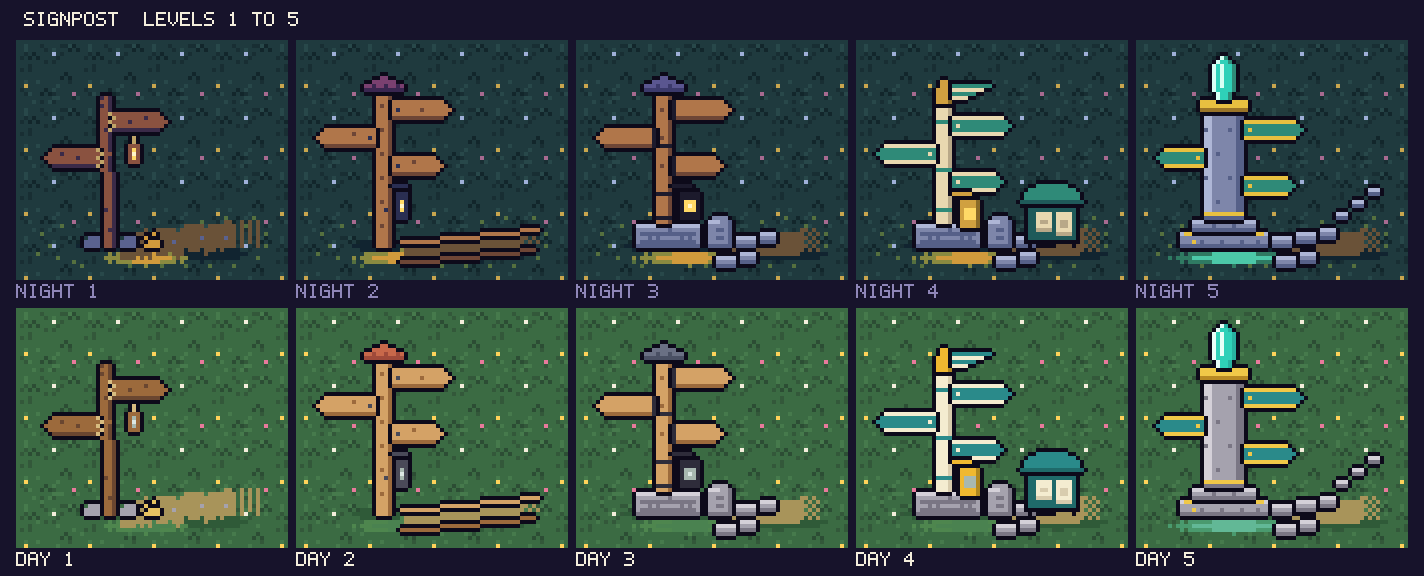
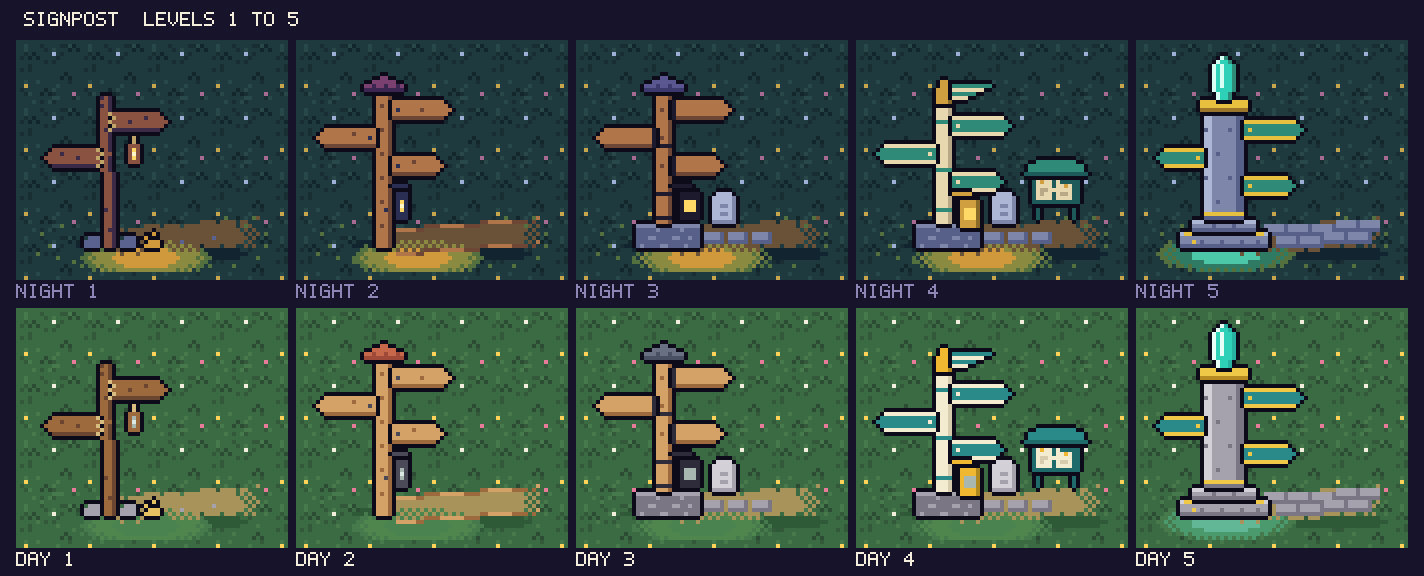
Signpost: lantern pools, one continuous road, notice board and milestone fixes
Claude-Session: https://claude.ai/code/session_01TqJ8tUAM4Muj4eb7wE4uc8

diff --git a/apps/activity/src/sprites/concepts/valley-levels-signpost.ts b/apps/activity/src/sprites/concepts/valley-levels-signpost.ts
@@ -41,6 +41,10 @@ const OWN = {
   },
   day: { x: '#2f5a38', '1': '#467a4c', '2': '#4e864e', '3': '#4a8250', G: '#a8b8b0', H: '#dce8e4' },
 };
+const OWN3 = {
+  night: { k: INK, x: '#112430', '1': '#55703f', '2': '#8a8a40', '3': '#d09a3c', G: '#ffd966' },
+  day: { x: '#2f5a38', '1': '#467a4c', '2': '#4e864e', '3': '#4a8250', G: '#a8b8b0' },
+};
 const OWN4 = {
   night: {
     k: INK,
@@ -104,20 +108,20 @@ const ROAD_1 = level(
     '...................kllLk........................................',
     '...................kLlLk........................................',
     '...................kllLk........................................',
-    '...................kllLk..........................1......1......',
-    '...................kllLk....................1.....ee..e.e.e.....',
-    '.........1.........kllLk................eeeee.eeeeeee.e1e.e.....',
-    '...................klLLk......e.keeeee.eeeeeeeeeeeeee.e.e.e.....',
-    '....1..........kkkkkllLkkkkkeekkskeeeeeeeeeeeeeeeeeee.e.e.e.1...',
-    '..............k.fffkllLk.fffkkskkkeeeeeeeeeefeeeeefee.e.e.e.....',
-    '..............kffffkllLkffffkekssskeefeeeeeeeeeeeeeee.e.e.e.....',
-    '......1......xkffffkllLkffffkksssskeeeeeeeeeeeeeeeeee.e...e.1...',
-    '...............kkkkxkkkxkkkkeekkkkeeeeeexeeexeeexexxxx..........',
-    '...1.................2.2eeeeeeee3eee2eeexxxxxexxxxxxxxxx........',
-    '........1...........2222eeee3e3e333332e22xxxxxxxxxxxxx....1.....',
-    '............1........2.222233333332222.2....x...................',
-    '..............1...........1...2...1.....1.....1.....1...........',
-    '................................................................',
+    '...................kllLk..........................1......1e.....',
+    '...................kllLk....................eeee.eeee.ee........',
+    '.........1.........kllLk......eeee.eeee.eeeeeeeeeeeee.e1e.......',
+    '...................klLLke.eeeeeekeeeeeeeeeeeeeeeeeeeee.e.e......',
+    '....1..........kkkkkllLkkkkkeekkskeeeeeeeeeeeeeeeeeeeee.e.e.1...',
+    '..............k.fffkllLk.fffkkskkkeeeeeeeeeeeeefeeeeeeee.e......',
+    '..............kffffkllLkffffkekssske2eefeeeeeeeeeeeeeee.e.......',
+    '......1......xkffffkllLkffffkkssssk2e2e2e2eexeeee.eee..e.e..1...',
+    '...............kkkk1kkkekkkk3ekkkk332e2e2e2e1xxxxxxxxx..........',
+    '...1...........112222223e333e33333333322222211xxxxxxxxxx........',
+    '........1.....112122223333333333333333322221211xxxxxxx....1.....',
+    '............1..1122222233333333333333322222211..................',
+    '..............1.11212222233333333333222221211.1.....1...........',
+    '.................1.21212222222222222221212.1....................',
   ],
 );
 
@@ -170,20 +174,20 @@ const ROAD_2 = level(
     '.................kpppPknHnk.....................................',
     '.................kppnPknGnk.....................................',
     '.................kpppPknnnk.....................................',
-    '.................kpppPknnnk.......................1......1......',
-    '.................kpppPkkkk..................1...................',
-    '.........1.......kpPpPk...............................kkkkk.....',
-    '.................kpppPk.....................kkkkkkkkkkpppppk....',
-    '....1............kpppPk...........kkkkkkkkkkppppppppppkkkkk.1...',
-    '.................kpppPk.kkkkkkkkkkppppppppppkkkkkkkkkkee.e......',
-    '..............xxxkpppPkkppppppppppkkkkkkkkkkeeeeeeeeeee.e.e.....',
-    '......1.....xxxxxkpppPkxkkkkkkkkkkeeeeeeeeeeeeeeeeeeeekkkk..1...',
-    '..............xxxxkkkkxx2eeeeeeeeeeeeeeeeeeekkkkkkkkkkPPPPk.....',
-    '...1...........2222223333eeeeeeeeekkkkkkkkkkPPPPPPPPPPkkkk......',
-    '........1...2.2223333333kkkkkkkkkkPPPPPPPPPPkkkkkkkkkkx...1.....',
-    '............1..22222233kPPPPPPPPPPkkkkkkkkkkx...................',
-    '..............1.........kkkkkkkkkk1.....1.....1.....1...........',
-    '................................................................',
+    '.................kpppPknnnk.......................1......1p.....',
+    '.................kpppPkkkk..................PPppppppPPPP.P......',
+    '.........1.......kpPpPk.......PPPPppppppPPPPeeeeeeeeeee1e.e.....',
+    '.................kpppPkpppppPPeeeeeeeeeeeeeeeeeeeeeeeeee.e......',
+    '....1............kpppPkeeeeeeeeeeeeeeeeeeeeeeeeeeeeeeee.e.e.1...',
+    '.................kpppPkeeeeeeeeeeeeeeeeeeeeeeeeeeeeeeeee.e......',
+    '..............xxxkpppPke2e2e2e2e2e2eeeeeeeeeeeeeeeeeeee.e.p.....',
+    '......1.....xxx1xkpppPk2e2e2e2e2e2e2e2e2eeeePPppppppPPPP.P..1...',
+    '..............1121kkkk2e3e3e3ePPPPppppppPPPPxxxxxxxxxxx.........',
+    '...1.........1122222233pppppPP33333322222211xxxxxxxxxxxxx.......',
+    '........1...112122223333333333333333322221211xxxxxxxxxx...1.....',
+    '............11122222233333333333333322222211x...................',
+    '..............11212222233333333333222221211...1.....1...........',
+    '...............1.21212222222222222221212.1......................',
   ],
 );
 
@@ -200,7 +204,7 @@ const ROAD_3 = level(
     tierPalette(2, { p: 'plank', P: 'plankShade' }),
     tierPalette(1, { e: 'earth' }),
   ],
-  OWN,
+  OWN3,
   [
     '................................................................',
     '................................................................',
@@ -237,27 +241,27 @@ const ROAD_3 = level(
     '.................kpppPkkkkkkkkkkk...............................',
     '.................kpppPkkkkk.....................................',
     '.................kpppkiiiiik....................................',
-    '.................kpppPkkkkkkk...................................',
-    '.................kiiiikkiiiiik..................................',
-    '.................kpppPkkiiiiik..................................',
-    '.................kpppPkkiGGGik..................................',
-    '.................kpppPkkiGHGik..................................',
-    '.................kpppPkkiGGGik..................................',
-    '.................kpppPkkiiiiik..kkkk............................',
-    '.................kiiiikkiiiiik.kttttk.............1......1......',
-    '.............kkkkkpppPkkkkkkk.kLLLttTk......1...................',
-    '.........1..kLLLLLkkkkLLLLLLLkktttttTk.................1........',
-    '............kttttttttTtttttttkkttTTtTk......kkkk......ee.e......',
-    '....1.......ktTTTTTTTTTTTTTTtkktttttTkkkkkkkLLLLkeeeeee.e.e.1...',
-    '............ktttTtTtttttTtTttkkttTTtTkLLLLLkttttkeeeeeee.e......',
-    '............ktTTTTTTTTTTTTTTtkktttttTktttttkTTTTkeeeeee.e.e.....',
-    '......1...xxkTTTTTTTTTTTTTTTTkkTTTTTTkTTTTTkkkkkeeeeeeee.e..1...',
-    '............xkkkkkkkkkkkkkkkkxxkkkkkkekkkkkeeeeeeeeeeeexexe.....',
-    '...1...........2.2222233333333322kkkkkkLLLLkeeeeeeeeeexxxxxxx...',
-    '........1...2.222233333333333333kLLLLLkttttkxxxxxxxxxxxxxxx.....',
-    '............1..2.222223333333332ktttttkTTTTk....x...............',
-    '..............1...........2...1.kTTTTTkkkkk...1.....1...........',
-    '.................................kkkkk..........................',
+    '.................kpppPkkkkkkk....kkkk...........................',
+    '.................kiiiikkiiiiik..kLLLLk..........................',
+    '.................kpppPkkiiiiik.kLLLLLtk.........................',
+    '.................kpppPkkiGGGik.kLLLLLtk.........................',
+    '.................kpppPkkiGGGik.kLLttLtk.........................',
+    '.................kpppPkkiGGGik.kLLLLLtk.........................',
+    '.................kpppPkkiiiiik.kLLttLtk.........................',
+    '.................kiiiikkiiiiik.kLLLLLtk...........1......1e.....',
+    '.............kkkkkpppPkkkkkkk..kttttttk.....eeee.eeee.ee........',
+    '.........1..ktttttkkkktttttttkeekkkkkke.eeeeeeeeeeeee.e1e.......',
+    '............kTTTTTtTTTTTtTTTTkeeeeeeeeeeeeeeeeeeeeeeee.e.e......',
+    '....1.......kTTTTTTTTTTTTTTTTkttttTettttTettttTeeeeeeee.e.e.1...',
+    '............kTTTttTTTTttTTtTTkttttTettttTettttTeeeeeeeee.e......',
+    '............kTTTTTTTTTTTTTTTTkTTTTTeTTTTTeTTTTTeeeeeeee.e.......',
+    '......1...xxkTtTTTTttTTTTtTTTke2e2e2e2e2eeee.eeee.eee..e.e..1...',
+    '............xkkkkkkkkkkkkkkkke3e3e322e2e2e2e1xxxxxxxxxxxxxx.....',
+    '...1.........1.212222233e333e333333332222212x1xxxxxxxxxxxxxxx...',
+    '........1...1.2122222333333333333333332222212x1xxxxxxxxxxxx.....',
+    '............11.21222223333333333333332222212.1..x...............',
+    '..............1.212222223333333333322222212.1.1.....1...........',
+    '.................1121222222222222222221211......................',
   ],
 );
 
@@ -296,35 +300,35 @@ const ROAD_4 = level(
     '....kccccccccccccckccCk.........................................',
     '...kzzzzzzzzzzzzzzkccCk.........................................',
     '..kzzzzzzzzzzzzzczkccCk.........................................',
-    '...kzzzzzzzzzzzzzzkccCk.........................................',
-    '....kccccccccccccckccCk.........................................',
-    '.....kkkkkkkkkkkkkcccCk.........................................',
-    '.................kzzzzkkkkkkkkkkk...............................',
-    '.................kccckccccccccccck..............................',
-    '.................kccckzzzzzzzzzzzzk.............................',
-    '.................kccckzczzzzzzzzzzzk.......kkkkkkkk.............',
-    '.................kccckzzzzzzzzzzzzk......kkzzzzzzzzkk...........',
-    '.................kccckkkkkkcccccck......kzzzzzzzzzzzzk..........',
-    '.................kccckbbbbbkkkkkk......kzzzzzzzzzzzzzzk.........',
-    '.................kcccCkkkkkkk..........kzzzzzzzzzzzzzzk.........',
-    '.................kcccCkkbbbbBk........kZZZZZZZZZZZZZZZZk........',
-    '.................kcccCkkbbbbBk.........kkkkkkkkkkkkkkkk.........',
-    '.................kzzzzkkbGGGBk..........kZZZZZZZZZZZZk..........',
-    '.................kcccCkkbGGGBk..kkkk....kZZccccZccccZk..........',
-    '.................kcccCkkbGGGBk.kttttk...kZZccccZccccZk...1......',
-    '.............kkkkkcccCkkbbbbBkkLLLttTk..kZZcCCcZcCCcZk..........',
-    '.........1..kLLLLLkkkkLkbbbbBkktttttTk..kZZccccZcCCcZk.1........',
-    '............kttttttttTttkkkkkkkttTTtTk..kZZCCCCZccccZkee.e......',
-    '....1.......ktTTTTTTTTTTTTTTtkktttttTkkkkZZZZZZZCCCCZke.e.e.1...',
-    '............ktttTtTtttttTtTttkkttTTtTkLLkZZZZZZZZZZZZkee.e......',
-    '............ktTTTTTTTTTTTTTTtkktttttTkttkkkkkkkkkkkkkke.e.e.....',
-    '......1...xxkTTTTTTTTTTTTTTTTkkTTTTTTkTTTkTkkkkkeeeekeee.e..1...',
-    '............xkkkkkkkkkkkkkkkkxxkkkkkkekkkkkeeeeeeeeeeeexexe.....',
-    '...1...........2.2222233333333322kkkkkkLLLLkeeeeeeeeeexxxxxxx...',
-    '........1...2.222233333333333333kLLLLLkttttkxxxxxxxxxxxxxxx.....',
-    '............1..2.222223333333332ktttttkTTTTk....x...............',
-    '..............1...........2...1.kTTTTTkkkkk...1.....1...........',
-    '.................................kkkkk..........................',
+    '...kzzzzzzzzzzzzzzkccCk....................kkkkkkkkkk...........',
+    '....kccccccccccccckccCk..................kkzzzzzzzzzzkk.........',
+    '.....kkkkkkkkkkkkkcccCk.................kzzzzzzzzzzzzzzk........',
+    '.................kzzzzkkkkkkkkkkk.......kzzzzzzzzzzzzzzk........',
+    '.................kccckccccccccccck.....kZZZZZZZZZZZZZZZZk.......',
+    '.................kccckzzzzzzzzzzzzk.....kkkkkkkkkkkkkkkk........',
+    '.................kccckzczzzzzzzzzzzk.....kZcbccZcZZZZZk.........',
+    '.................kccckzzzzzzzzzzzzk......kZccccZccbcZZk.........',
+    '.................kccckkkkkkcccccckkkk....kZcCCccccccZZk.........',
+    '.................kccckbbbbbkkkkkkLLLLk...kZcCccZcCCcZZk.........',
+    '.................kcccCkkkkkkk..kLLLLLtk..kZccccZccccZZk.........',
+    '.................kcccCkkbbbbBk.kLLLLLtk..kZZZZZZZZZZZZk.........',
+    '.................kcccCkkbbbbBk.kLLttLtk...kkkkkkkkkkkk..........',
+    '.................kzzzzkkbGGGBk.kLLLLLtk...kZk......kZk..........',
+    '.................kcccCkkbGGGBk.kLLttLtk...kZk......kZk..........',
+    '.................kcccCkkbGGGBk.kLLLLLtk...kZk.....1kZk...1e.....',
+    '.............kkkkkcccCkkbbbbBk.kttttttk....keeee.eeek.ee........',
+    '.........1..ktttttkkkktkbbbbBkeekkkkkke.eeeeeeeeeeeee.e1e.......',
+    '............kTTTTTtTTTTTkkkkkkeeeeeeeeeeeeeeeeeeeeeeee.e.e......',
+    '....1.......kTTTTTTTTTTTTTTTTkttttTettttTettttTeeeeeeee.e.e.1...',
+    '............kTTTttTTTTttTTtTTkttttTettttTettttTeeeeeeeee.e......',
+    '............kTTTTTTTTTTTTTTTTkTTTTTeTTTTTeTTTTTeeeeeeee.e.......',
+    '......1...xxkTtTTTTttTTTTtTTTke2e2e2e2e2eeee.eeee.eee..e.e..1...',
+    '............xkkkkkkkkkkkkkkkke3e3e322e2e2e2e1xxxxxxxxxxxxxx.....',
+    '...1.........1.212222233e333e333333332222212x1xxxxxxxxxxxxxxx...',
+    '........1...1.2122222333333333333333332222212x1xxxxxxxxxxxx.....',
+    '............11.21222223333333333333332222212.1..x...............',
+    '..............1.212222223333333333322222212.1.1.....1...........',
+    '.................1121222222222222222221211......................',
   ],
 );
 
@@ -377,28 +381,28 @@ const ROAD_5 = level(
     '..............kLLttttttTTkkkkkkkkkkk............................',
     '..............kTLttttTtTkgggggggggggk...........................',
     '..............kLLttttttTkqqqqqqqqqqqqk..........................',
-    '..............kLLttttttTkqgqqqqqqqqqqqk.................kkk.....',
-    '..............kLLttttttTkqqqqqqqqqqqqk.................kLLLk....',
-    '..............kLLttttttTkgggggggggggk..................kTTTk....',
-    '..............kLLttttttTTkkkkkkkkkkk................kkk.kkk.....',
-    '..............kLLtTttttTTk.........................kLLLk........',
-    '..............kLLttttttTTk.........................kTTTk........',
-    '..............kLLttttttTTk......................kkk.kkk.........',
-    '..............kggggggggggk.....................kLLLk............',
-    '............kkkTTTTTTTTTTkkk...................kTTTk.....1......',
-    '...........kLLLkkkkkkkkkkLLLk...............1...kkk.............',
-    '.........1.ktttttTttttTtttttk...............kkkk.......1........',
-    '.........kkkTTTTTTTTTTTTTTTTkkk.......kkkkkkLLLLk.....ee.e......',
-    '....1...kLggkkkkkkkkkkkkkkkkggLkkkkkkkLLLLLkttttkeeeeee.e.e.1...',
-    '........kttttttttttttttttttttttkLLLLLktttttkTTTTkeeeeeee.e......',
-    '........ktttgtTttttTttttTtttTttktttttkTTTTTkkkkkeeeeeee.e.e.....',
-    '......1xkTTTTTTTTTTTTTTTTTTTTTTkTTTTTkkkkkkeeeeeeeeeeeee.e..1...',
-    '.........kkkkkkkkkkkkkkkkkkkkkkxkkkkkeekkkkeeeeeeeeeeeexexe.....',
-    '...1.....2.2222223333333333322222kkkkkkLLLLkeeeeeeeeeexxxxxxx...',
-    '......2.222233333333333333333333kLLLLLkttttkxxxxxxxxxxxxxxx.....',
-    '.........2.222222333333333332222ktttttkTTTTk....x...............',
-    '..............1.......2...1...1.kTTTTTkkkkk...1.....1...........',
-    '.................................kkkkk..........................',
+    '..............kLLttttttTkqgqqqqqqqqqqqk.........................',
+    '..............kLLttttttTkqqqqqqqqqqqqk..........................',
+    '..............kLLttttttTkgggggggggggk...........................',
+    '..............kLLttttttTTkkkkkkkkkkk............................',
+    '..............kLLtTttttTTk......................................',
+    '..............kLLttttttTTk......................................',
+    '..............kLLttttttTTk......................................',
+    '..............kggggggggggk......................................',
+    '............kkkTTTTTTTTTTkkk......................1......1e.....',
+    '...........kLLLkkkkkkkkkkLLLk...............eeeetttttTttttt.....',
+    '.........1.ktttttTttttTtttttk.tttttTtttttTtttttTtttttTttttt.....',
+    '.........kkkTTTTTTTTTTTTTTTTkkkttttTtttttTtttttTTTTTTTTTTTT.....',
+    '....1...kLggkkkkkkkkkkkkkkkkggLkTTTTTTTTTTTTTtttttTtttttT.e.1...',
+    '........kttttttttttttttttttttttketttttTtttttTtttttTtttttTe......',
+    '......1.ktttgtTttttTttttTtttTttketttttTtttttTTTTTTTTTTTTT.......',
+    '.....112kTTTTTTTTTTTTTTTTTTTTTTkeTTTTTTTTTTTTeeee.eee..e.e..1...',
+    '....11212kkkkkkkkkkkkkkkkkkkkkke2e21eeeexeeexxxxxxxxxxxxxxx.....',
+    '...112122222333333333333e333e222221211xxxxxxxxxxxxxxxxxxxxxxx...',
+    '....112122223333333333333333322221211.xxxxxxxxxxxxxxxxxxxxx.....',
+    '.....1121222222333333333332222221211............x...............',
+    '......1.1121222222222222222221211.1.....1.....1.....1...........',
+    '...........1.212121212121212.1..................................',
   ],
 );
 

diff --git a/docs/art/README.md b/docs/art/README.md
@@ -294,7 +294,7 @@ Status: **liked** means Misa approved the look; **draft** means he has not said 
 - **Status:** draft
 - **Requested:** 2026-11-09 (Misa): "Each building can absolutely change building material as it upgrades in levels, and I'm thinking we might even want to tweak the earlier levels to be less elaborate... If you change materials, there needs to be a common motif between buildings of the same level... Think of how Clash of Clans brings a new look with each new town hall level." Earlier (2026-11-05): the road is short and heads right from the post, and every sign has its full ink outline.
 - **Source:** `apps/activity/src/sprites/concepts/valley-levels-signpost.ts` (draw it with `pnpm art valley-levels-signpost`)
-- **Sheet of:** `439e377740f9`
+- **Sheet of:** `f2caed9de17e`
 - V-COM-1: the Signpost shows its level by its material (docs/design/art-levels.md): Humble, Settled, Stone, Valley, Crystal. `pnpm art levels` draws them side by side (`docs/art/levels/signpost.png`, `market.png`).
 - Signpost, all levels: one 64x56 canvas, the post's foot on row 50, the road short and heading right from the foot (it never reaches the top edge), every sign with its full ink outline, no text on any sign. Night has the lantern's light lying on the ground (the crystal's teal light at level 5); by day the lanterns are unlit and the crystal keeps glowing. Colours from `valley-tiers.ts` (Humble, Settled, Stone, Valley, Crystal).
 - Market: built once. Level 1 is the plot staked out and begun (the shard post with its big sign already stands, a bare counter frame with a few planks laid, a rolled-up awning on the beam, crates, planks, a sack, stakes and string); level 2 is `valley-glow/market`. The shard keeps glowing by day.
